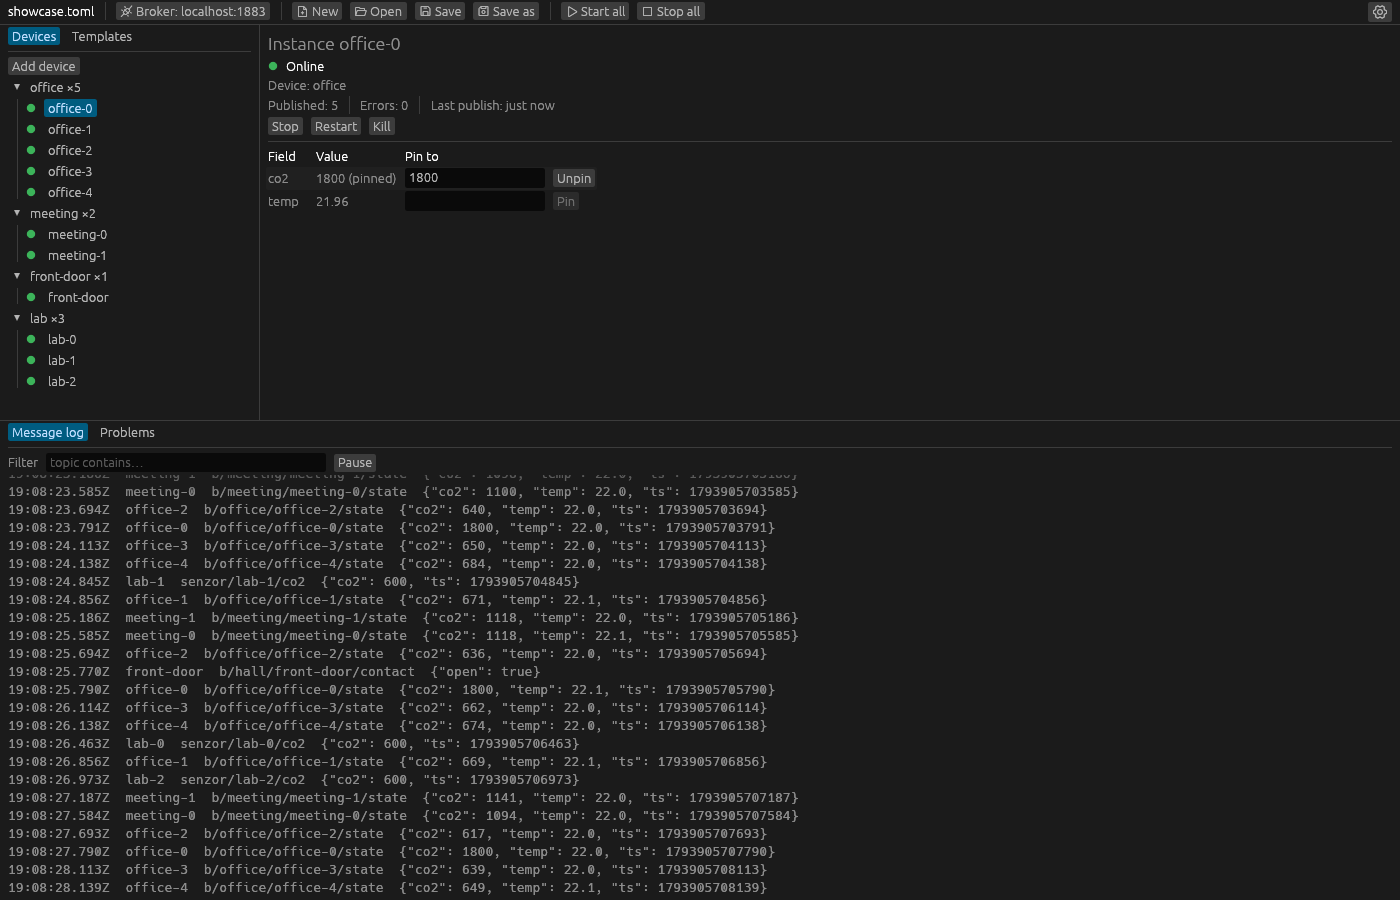
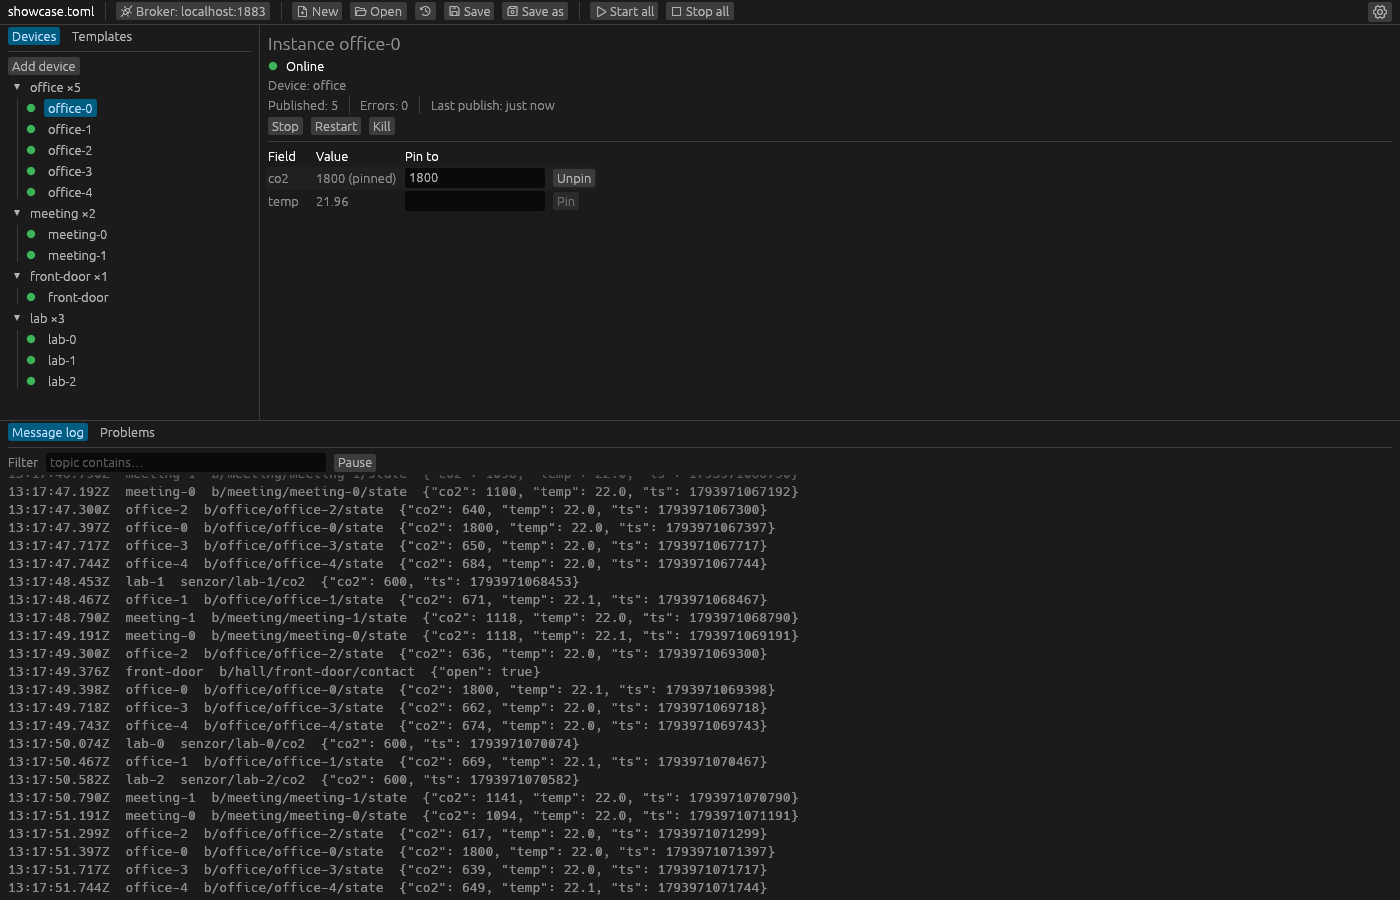
feat(gui): recent projects in the top bar
A clock button next to Open lists the project files opened or saved lately,
the latest first, and opens one the way Open does. The list is kept with
the app settings.

- Recent menu: file name with its folder, at most 10 entries, each file
  once, Clear list; items are named by their full path for screen readers
  and tests. An icon only, so the top bar still fits an 800 px window.
- A file goes first when it opens, also from the command line, and when it
  is saved or saved as; a file that does not open is not added, nor are
  projects an agent opens or saves over MCP.
- A listed file that no longer exists says so, leaves the list, and the
  current project stays open.
- App settings: recent, with paths resolved (symlinks, . and ..) so a file
  is listed once.
- Tests: remember, dedupe, cap and forget; opening and Save as add to the
  list; choosing an entry opens it; a deleted entry is reported and removed.
- Docs: Files has a Recent projects section; Settings and the window page
  mention the list; screenshots regenerated with the new button.

diff --git a/crates/senzor/src/settings.rs b/crates/senzor/src/settings.rs
@@ -1,6 +1,8 @@
 //! The app's own settings, kept between launches in eframe's storage (on Linux under
 //! `~/.local/share/`). They are not part of any project file.
 
+use std::path::{Path, PathBuf};
+
 use eframe::egui;
 use serde::{Deserialize, Serialize};
 
@@ -41,6 +43,8 @@ pub struct AppSettings {
     pub theme: Theme,
     /// How large everything is drawn: 1.0 is 100 %.
     pub zoom: f32,
+    /// Project files opened or saved lately, the latest first, at most [`AppSettings::RECENT`].
+    pub recent: Vec<PathBuf>,
 }
 
 impl Default for AppSettings {
@@ -48,12 +52,29 @@ impl Default for AppSettings {
         Self {
             theme: Theme::default(),
             zoom: 1.0,
+            recent: Vec::new(),
         }
     }
 }
 
 impl AppSettings {
     const KEY: &str = "senzor-settings";
+    /// How many recent projects the list keeps.
+    pub const RECENT: usize = 10;
+
+    /// Puts `path` first in the recent projects, as an absolute path when it can be resolved.
+    pub fn remember(&mut self, path: &Path) {
+        let path = resolved(path);
+        self.recent.retain(|p| *p != path);
+        self.recent.insert(0, path);
+        self.recent.truncate(Self::RECENT);
+    }
+
+    /// Takes `path` off the recent projects.
+    pub fn forget(&mut self, path: &Path) {
+        let resolved = resolved(path);
+        self.recent.retain(|p| p != path && *p != resolved);
+    }
 
     /// The stored settings, or the defaults when there are none or they cannot be read.
     pub fn load(storage: Option<&dyn eframe::Storage>) -> Self {
@@ -71,6 +92,14 @@ impl AppSettings {
         ctx.set_theme(self.theme.preference());
         ctx.set_zoom_factor(self.zoom);
     }
+}
+
+/// `path` with symbolic links and `.` or `..` resolved; for a file that does not exist, just
+/// made absolute.
+fn resolved(path: &Path) -> PathBuf {
+    path.canonicalize()
+        .or_else(|_| std::path::absolute(path))
+        .unwrap_or_else(|_| path.to_path_buf())
 }
 
 #[cfg(test)]
@@ -104,6 +133,7 @@ mod tests {
         let settings = AppSettings {
             theme: Theme::Light,
             zoom: 1.3,
+            recent: vec![PathBuf::from("/projects/a.toml")],
         };
         settings.save(&mut storage);
         assert_eq!(AppSettings::load(Some(&storage)), settings);
@@ -145,6 +175,7 @@ mod tests {
         AppSettings {
             theme: Theme::Light,
             zoom: 1.5,
+            recent: Vec::new(),
         }
         .apply(&ctx);
         // egui changes the zoom when the next frame begins.
@@ -155,5 +186,50 @@ mod tests {
             ctx.options(|o| o.theme_preference),
             egui::ThemePreference::Light
         );
+    }
+
+    #[test]
+    fn a_remembered_project_goes_first_and_appears_once() {
+        let mut settings = AppSettings::default();
+        for name in ["a", "b", "a"] {
+            settings.remember(Path::new(&format!("/projects/{name}.toml")));
+        }
+        assert_eq!(
+            settings.recent,
+            [Path::new("/projects/a.toml"), Path::new("/projects/b.toml")]
+        );
+    }
+
+    #[test]
+    fn the_recent_list_keeps_the_latest_ten() {
+        let mut settings = AppSettings::default();
+        for n in 0..12 {
+            settings.remember(Path::new(&format!("/projects/{n}.toml")));
+        }
+        assert_eq!(settings.recent.len(), AppSettings::RECENT);
+        assert_eq!(settings.recent[0], Path::new("/projects/11.toml"));
+        assert_eq!(settings.recent[9], Path::new("/projects/2.toml"));
+    }
+
+    #[test]
+    fn a_relative_path_is_remembered_as_an_absolute_one() {
+        let dir = std::env::temp_dir().join(format!("senzor-recent-{}", std::process::id()));
+        std::fs::create_dir_all(&dir).unwrap();
+        let file = dir.join("p.toml");
+        std::fs::write(&file, "").unwrap();
+        let mut settings = AppSettings::default();
+        settings.remember(&file);
+        settings.remember(&dir.join(".").join("p.toml"));
+        assert_eq!(settings.recent, [file.canonicalize().unwrap()]);
+        std::fs::remove_dir_all(&dir).unwrap();
+    }
+
+    #[test]
+    fn a_forgotten_project_leaves_the_list() {
+        let mut settings = AppSettings::default();
+        settings.remember(Path::new("/projects/a.toml"));
+        settings.remember(Path::new("/projects/b.toml"));
+        settings.forget(Path::new("/projects/a.toml"));
+        assert_eq!(settings.recent, [Path::new("/projects/b.toml")]);
     }
 }

diff --git a/crates/senzor/src/ui/top_bar.rs b/crates/senzor/src/ui/top_bar.rs
@@ -1,3 +1,5 @@
+use std::path::PathBuf;
+
 use eframe::egui;
 use egui_phosphor::regular as icons;
 
@@ -5,7 +7,14 @@ use super::Action;
 use crate::document::Document;
 
 /// `starting`: devices or commands are waiting for the previous project's engine to stop.
-pub fn show(ui: &mut egui::Ui, doc: &Document, starting: bool, actions: &mut Vec<Action>) {
+/// `recent`: the recent projects, the latest first.
+pub fn show(
+    ui: &mut egui::Ui,
+    doc: &Document,
+    recent: &[PathBuf],
+    starting: bool,
+    actions: &mut Vec<Action>,
+) {
     ui.horizontal(|ui| {
         ui.strong(doc.title());
         ui.separator();
@@ -26,6 +35,7 @@ pub fn show(ui: &mut egui::Ui, doc: &Document, starting: bool, actions: &mut Vec
         if icon_button(ui, icons::FOLDER_OPEN, "Open").clicked() {
             actions.push(Action::Open);
         }
+        recent_menu(ui, recent, actions);
         if icon_button(ui, icons::FLOPPY_DISK, "Save").clicked() {
             actions.push(Action::Save);
         }
@@ -66,4 +76,40 @@ fn icon_button(ui: &mut egui::Ui, icon: &str, label: &str) -> egui::Response {
     let response = ui.button(format!("{icon} {label}"));
     response.widget_info(|| egui::WidgetInfo::labeled(egui::WidgetType::Button, true, label));
     response
+}
+
+/// The Recent menu, a clock next to Open: each project's file name and folder; screen readers and tests know an item
+/// by its full path.
+fn recent_menu(ui: &mut egui::Ui, recent: &[PathBuf], actions: &mut Vec<Action>) {
+    let menu = ui.menu_button(icons::CLOCK_COUNTER_CLOCKWISE, |ui| {
+        if recent.is_empty() {
+            ui.weak("No recent projects");
+            return;
+        }
+        for path in recent {
+            let name = path.file_name().map_or_else(
+                || path.display().to_string(),
+                |n| n.to_string_lossy().into_owned(),
+            );
+            let folder = path
+                .parent()
+                .map(|p| p.display().to_string())
+                .unwrap_or_default();
+            let item = ui.button((
+                egui::RichText::new(name),
+                egui::RichText::new(folder).weak().small(),
+            ));
+            let full = path.display().to_string();
+            item.widget_info(|| egui::WidgetInfo::labeled(egui::WidgetType::Button, true, &full));
+            if item.clicked() {
+                actions.push(Action::OpenRecent(path.clone()));
+            }
+        }
+        ui.separator();
+        if ui.button("Clear list").clicked() {
+            actions.push(Action::ClearRecent);
+        }
+    });
+    let response = menu.response.on_hover_text("Recent projects");
+    response.widget_info(|| egui::WidgetInfo::labeled(egui::WidgetType::Button, true, "Recent"));
 }

diff --git a/crates/senzor/tests/gui.rs b/crates/senzor/tests/gui.rs
@@ -674,3 +674,74 @@ fn the_zoom_buttons_in_settings_zoom_the_window_and_the_zoom_is_saved() {
     eframe::App::save(harness.state_mut(), &mut storage);
     assert_eq!(AppSettings::load(Some(&storage)).zoom, 0.9);
 }
+
+/// The app's recent projects, the latest first.
+fn recent(harness: &App) -> Vec<PathBuf> {
+    harness.state().settings().recent.clone()
+}
+
+/// `path` as the recent projects store it.
+fn resolved(path: &std::path::Path) -> PathBuf {
+    path.canonicalize().unwrap()
+}
+
+/// Chooses `path` from the top bar's Recent menu; its items are named by the full path.
+fn open_recent(harness: &mut App, path: &std::path::Path) {
+    click(harness, "Recent");
+    click(harness, &path.display().to_string());
+}
+
+#[test]
+fn opening_a_project_puts_it_first_in_the_recent_projects() {
+    let a = write_project("recent-open-a", "");
+    let b = write_project("recent-open-b", "");
+    let mut harness = app(Some(a.clone()), FakeDialogs::opening(b.clone()));
+    assert_eq!(recent(&harness), [resolved(&a)]);
+
+    click(&mut harness, "Open");
+    assert_eq!(recent(&harness), [resolved(&b), resolved(&a)]);
+}
+
+#[test]
+fn saving_a_project_under_a_name_puts_it_in_the_recent_projects() {
+    let path = test_dir("recent-save-as").join("saved.toml");
+    let mut harness = app(None, FakeDialogs::saving(path.clone()));
+    click(&mut harness, "Save as");
+    assert_eq!(recent(&harness), [resolved(&path)]);
+}
+
+#[test]
+fn choosing_a_recent_project_opens_it() {
+    let a = write_project("recent-choose-a", "");
+    let b = write_project("recent-choose-b", "");
+    let mut harness = app(Some(a.clone()), FakeDialogs::opening(b.clone()));
+    click(&mut harness, "Open");
+
+    open_recent(&mut harness, &resolved(&a));
+    let opened = harness.state().document().path().map(resolved);
+    assert_eq!(opened, Some(resolved(&a)));
+    assert_eq!(recent(&harness), [resolved(&a), resolved(&b)]);
+}
+
+#[test]
+fn a_recent_project_that_is_gone_says_so_and_leaves_the_list() {
+    let a = write_project("recent-gone-a", "");
+    let b = write_project("recent-gone-b", "");
+    let mut harness = app(Some(a.clone()), FakeDialogs::opening(b.clone()));
+    click(&mut harness, "Open");
+    let gone = resolved(&a);
+    std::fs::remove_file(&a).unwrap();
+
+    open_recent(&mut harness, &gone);
+    assert_eq!(recent(&harness), [resolved(&b)]);
+    let opened = harness.state().document().path().map(resolved);
+    assert_eq!(opened, Some(resolved(&b)), "the open project stays");
+    assert!(
+        harness
+            .query_by_label(&format!(
+                "{} no longer exists, so it was taken off the recent projects.",
+                gone.display()
+            ))
+            .is_some()
+    );
+}

diff --git a/crates/senzor/src/app.rs b/crates/senzor/src/app.rs
@@ -186,7 +186,10 @@ impl SenzorApp {
 
     fn open_path(&mut self, path: &Path) {
         match Document::open(path) {
-            Ok(doc) => self.replace_document(doc),
+            Ok(doc) => {
+                self.settings.remember(path);
+                self.replace_document(doc);
+            }
             Err(error) => {
                 if self.engine.is_none() {
                     self.replace_document(Document::new_empty());
@@ -235,6 +238,9 @@ impl SenzorApp {
     fn finish_save(&mut self, result: Result<(), String>, then: Option<Pending>) {
         match result {
             Ok(()) => {
+                if let Some(path) = self.doc.path().map(Path::to_path_buf) {
+                    self.settings.remember(&path);
+                }
                 // Saving elsewhere can change how relative TLS paths resolve.
                 self.send(Command::ReplaceProject(
                     self.doc.validated().project.clone(),
@@ -290,6 +296,7 @@ impl SenzorApp {
                     self.open_path(&path);
                 }
             }
+            Pending::OpenPath(path) => self.open_path(&path),
             Pending::Close => {
                 self.allow_close = true;
                 self.ctx.send_viewport_cmd(egui::ViewportCommand::Close);
@@ -350,6 +357,18 @@ impl SenzorApp {
             }
             Action::OpenBroker => self.ui.broker_open = true,
             Action::OpenSettings => self.ui.settings_open = true,
+            Action::OpenRecent(path) => {
+                if path.exists() {
+                    self.guard(Pending::OpenPath(path));
+                } else {
+                    self.settings.forget(&path);
+                    self.ui.modal = Some(Modal::Error(format!(
+                        "{} no longer exists, so it was taken off the recent projects.",
+                        path.display()
+                    )));
+                }
+            }
+            Action::ClearRecent => self.settings.recent.clear(),
             Action::SetTheme(theme) => {
                 self.settings.theme = theme;
                 self.ctx.set_theme(theme.preference());
@@ -432,7 +451,7 @@ impl eframe::App for SenzorApp {
         let mut actions = Vec::new();
         let starting = self.starting_soon();
         egui::Panel::top("top-bar").show(ui, |ui| {
-            ui::top_bar::show(ui, &self.doc, starting, &mut actions);
+            ui::top_bar::show(ui, &self.doc, &self.settings.recent, starting, &mut actions);
         });
         egui::Panel::bottom("bottom")
             .resizable(true)

diff --git a/crates/senzor/src/ui/modals.rs b/crates/senzor/src/ui/modals.rs
@@ -37,7 +37,7 @@ pub fn show(ctx: &egui::Context, modal: &mut Modal) -> Option<Outcome> {
                 ui.heading("Unsaved changes");
                 let what = match pending {
                     Pending::New => "starting a new project",
-                    Pending::Open => "opening another project",
+                    Pending::Open | Pending::OpenPath(_) => "opening another project",
                     Pending::Close => "closing",
                 };
                 ui.label(format!("Save the changes to this project before {what}?"));
@@ -48,7 +48,7 @@ pub fn show(ctx: &egui::Context, modal: &mut Modal) -> Option<Outcome> {
                         ("Cancel", UnsavedChoice::Cancel),
                     ] {
                         if ui.button(label).clicked() {
-                            outcome = Some(Outcome::Unsaved(*pending, choice));
+                            outcome = Some(Outcome::Unsaved(pending.clone(), choice));
                         }
                     }
                 });
@@ -96,7 +96,7 @@ pub fn show(ctx: &egui::Context, modal: &mut Modal) -> Option<Outcome> {
                     if ui.button("Replace").clicked() {
                         outcome = Some(Outcome::Replace {
                             path: path.clone(),
-                            then: *then,
+                            then: then.clone(),
                         });
                     }
                     if ui.button("Cancel").clicked() {
@@ -115,7 +115,7 @@ pub fn show(ctx: &egui::Context, modal: &mut Modal) -> Option<Outcome> {
     });
     if outcome.is_none() && response.should_close() {
         outcome = Some(match modal {
-            Modal::Unsaved(pending) => Outcome::Unsaved(*pending, UnsavedChoice::Cancel),
+            Modal::Unsaved(pending) => Outcome::Unsaved(pending.clone(), UnsavedChoice::Cancel),
             _ => Outcome::Dismissed,
         });
     }

diff --git a/crates/senzor/src/ui/mod.rs b/crates/senzor/src/ui/mod.rs
@@ -54,6 +54,9 @@ pub enum Action {
     AskCopyBuiltin(String),
     OpenBroker,
     OpenSettings,
+    /// Open a project from the Recent menu.
+    OpenRecent(PathBuf),
+    ClearRecent,
     SetTheme(Theme),
     GoTo(ProblemTarget),
     /// Turn the MCP endpoint on or off.
@@ -108,10 +111,13 @@ pub fn replace_if_unchanged<T: Clone + PartialEq + 'static>(
 }
 
 /// What to do once unsaved changes are saved or discarded.
-#[derive(Debug, Clone, Copy, PartialEq, Eq)]
+#[derive(Debug, Clone, PartialEq, Eq)]
 pub enum Pending {
     New,
+    /// Ask which file to open.
     Open,
+    /// Open this file, chosen from the recent projects.
+    OpenPath(PathBuf),
     Close,
 }
 
